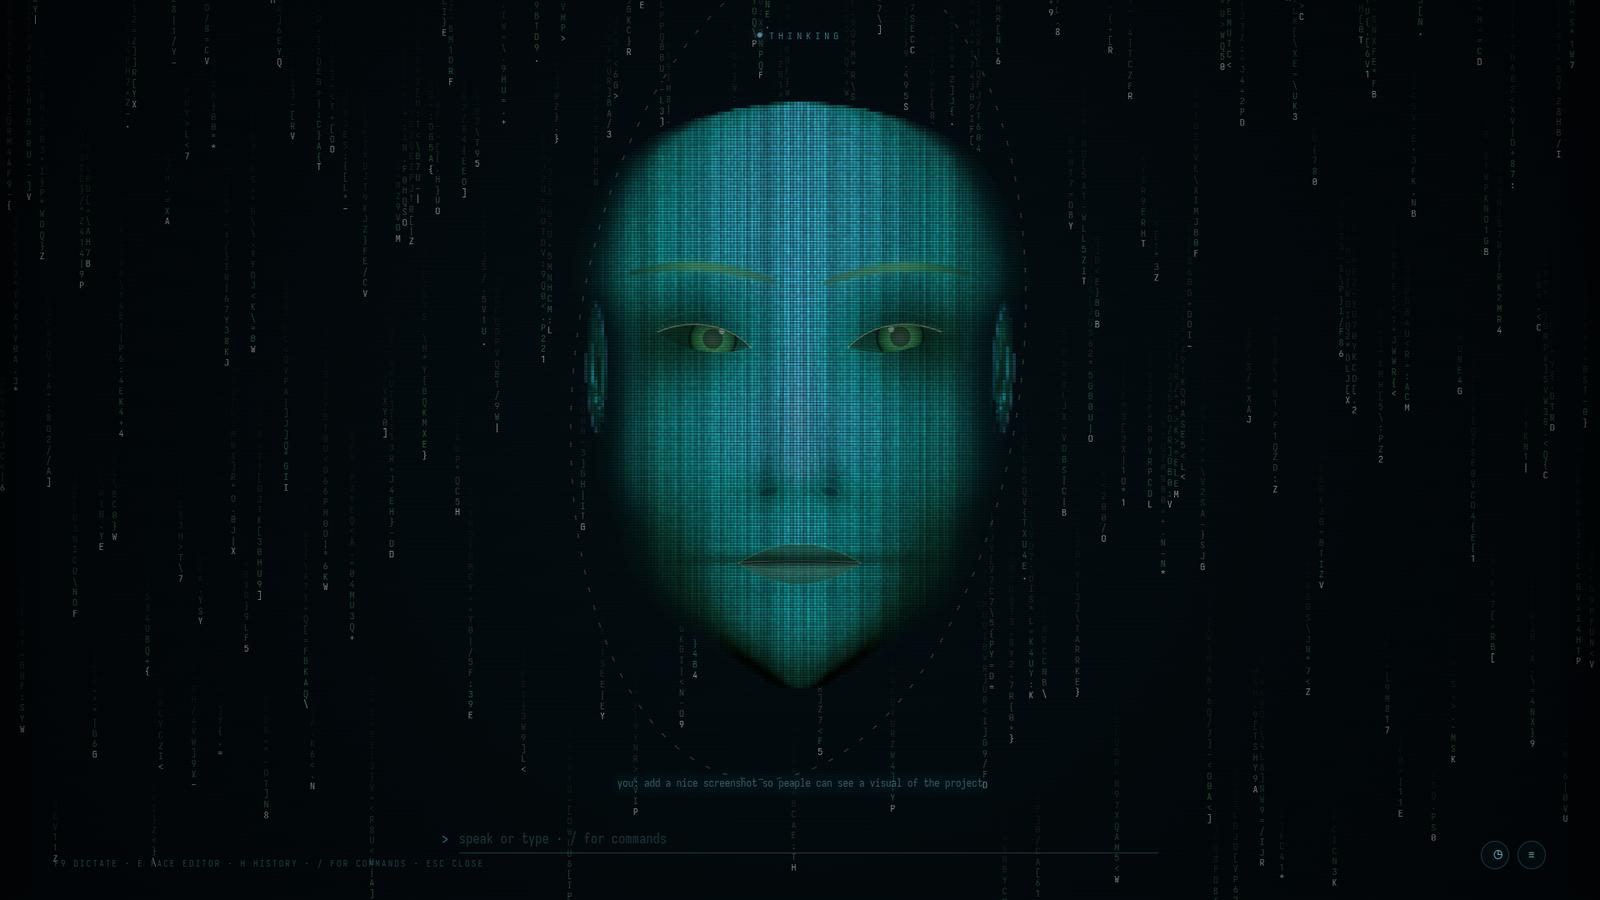
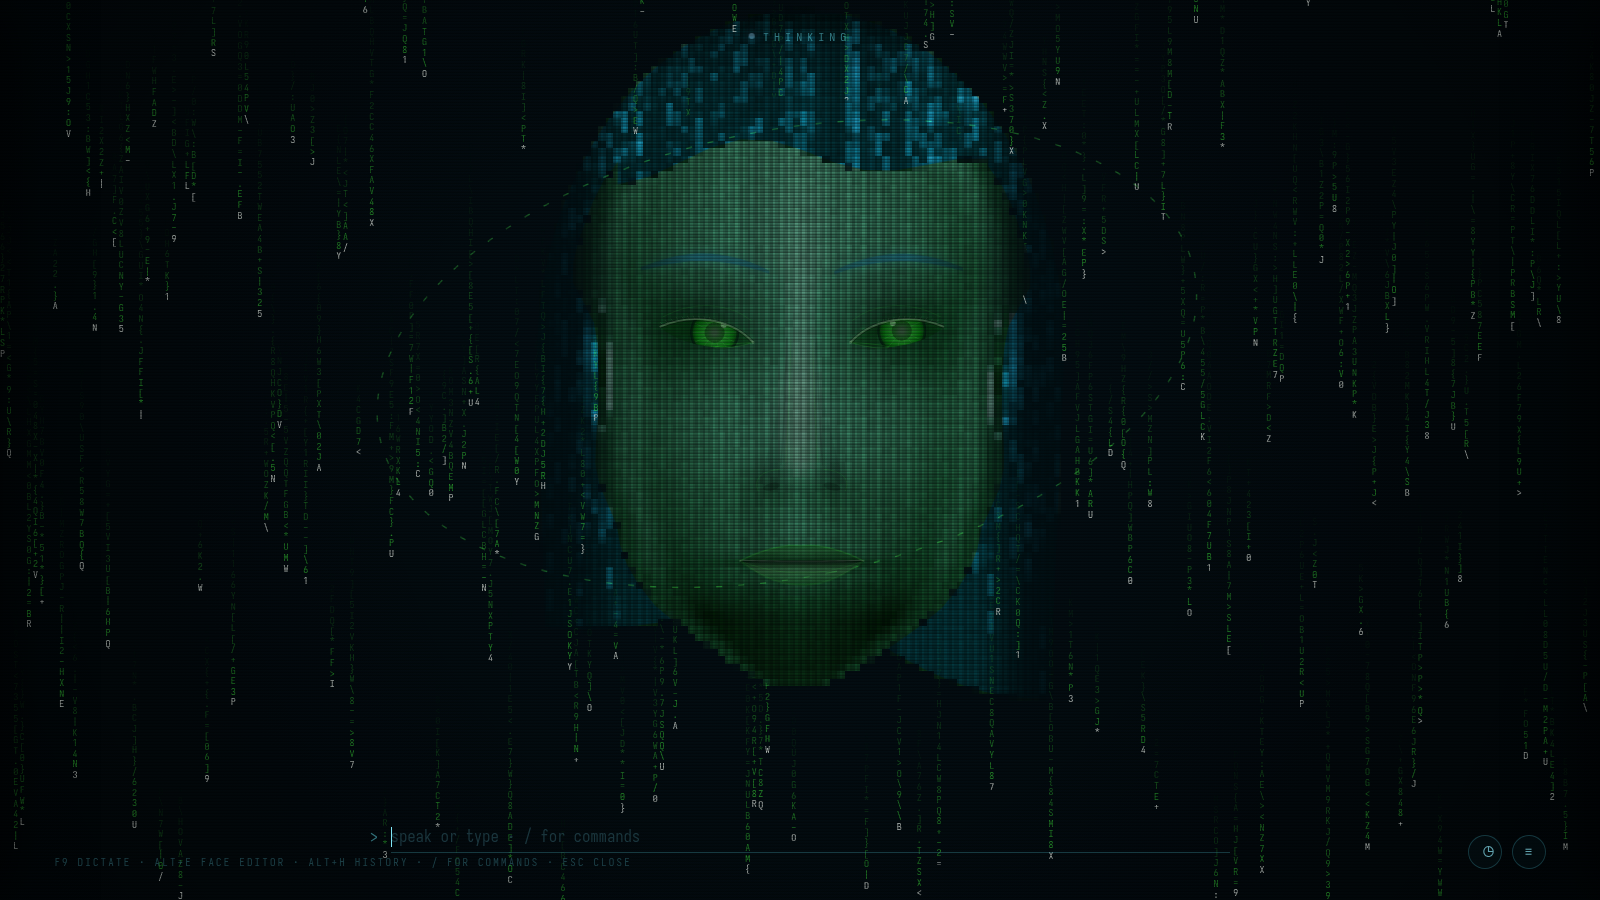
Screenshots: a new hero, the settings drawer and the right-click menu

diff --git a/README.md b/README.md
@@ -2,6 +2,11 @@
 
 ![The Hermes face at rest: a cell-shaded holographic head over glyph rain](preview.png)
 
+<p align="center">
+  <img src="screenshots/editor.png" width="49%" alt="The settings drawer: presets, sliders and the hair controls">
+  <img src="screenshots/menu.png" width="49%" alt="Right click on the bar glyph: the Hermes menu">
+</p>
+
 **What is an AI without a face?** This one has it: a holographic head that lives as a single glyph
 on your bar — idle, thinking, speaking or failed — and answers in your own agent's voice. The face
 ships inside this repository, so one install is the whole thing; nothing is fetched from another
